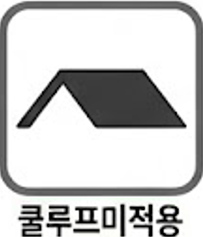
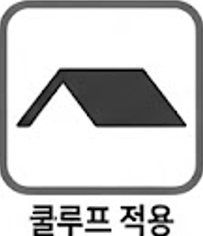
active도 적용

diff --git a/src/reb/report.py b/src/reb/report.py
@@ -931,6 +931,40 @@ def get_passivechange_bool(
         
     return bools
 
+def get_activechange_bool(
+    grm1:GreenRetrofitModel,
+    grm2:GreenRetrofitModel,
+    ) -> list[bool]:
+    
+    bools = [False]*5 # 난방, 냉방, 환기, 조명, 태양광
+    
+    heatingchanged, coolingchanged, ventchanged = parse_activechange(grm1, grm2)
+    
+    if heatingchanged != "변화 없음.":
+        bools[0] = True
+    if coolingchanged != "변화 없음.":
+        bools[1] = True
+    if ventchanged != "변화 없음.":
+        bools[2] = True
+        
+    # 조명
+    if round(grm1.averaged_lightdensity,3) != round(grm2.averaged_lightdensity,3):
+        bools[3] = True
+        
+    # 태양광
+    if len(grm1.pv) != len(grm2.pv):
+        bools[4] = True
+    elif any(
+        round(pv1.efficiency,3) != round(pv2.efficiency,3) or
+        round(pv1.area,3) != round(pv2.area,3) or
+        round(pv1.azimuth,2) != round(pv2.azimuth,2) or
+        round(pv1.tilt,2) != round(pv2.tilt,2)
+        for pv1, pv2 in zip(grm1.pv, grm2.pv)
+    ):
+        bools[4] = True
+    
+    return bools
+
 def build_report(
     before_rebexcelpath:str,
     after_rebexcelpath :str,
@@ -974,21 +1008,10 @@ def build_report(
         "before2after": bool_to_적용(get_passivechange_bool(grmbefore, grmafter)),
         "after2afterN": bool_to_적용(get_passivechange_bool(grmafter, grmafterN)),
     }
-    
     # active change
-    activechange_before2after = parse_activechange(grmbefore, grmafter)
-    activechange_after2afterN = parse_activechange(grmafter, grmafterN)
     activechangedict = {
-        "before2after":{
-            "heating": activechange_before2after[0],
-            "cooling": activechange_before2after[1],
-            "ventilation": activechange_before2after[2],
-        },
-        "after2afterN":{
-            "heating": activechange_after2afterN[0],
-            "cooling": activechange_after2afterN[1],
-            "ventilation": activechange_after2afterN[2],
-        }
+        "before2after": bool_to_적용(get_activechange_bool(grmbefore, grmafter)),
+        "after2afterN": bool_to_적용(get_activechange_bool(grmafter, grmafterN)),
     }
     
     # hvacoperation change

diff --git a/src/epsimple/core/hvac.py b/src/epsimple/core/hvac.py
@@ -1822,7 +1822,7 @@ class PhotoVoltaicSystem:
     """
     
     def __str__(self) -> str:
-        return f"{self.area:.1f}m2 PV panel {self.name} (ID={self.ID}): eff={self.efficiency*Unit.NONE2PRC:.1f}%, azim={self.azimuth:.1f}°, tilt={self.tilt:.1f}°"
+        return f"{self.area:.1f}m2 PV panel {self.name}: eff={self.efficiency*Unit.NONE2PRC:.1f}%, azim={self.azimuth:.1f}°, tilt={self.tilt:.1f}°"
     
     def __repr__(self) -> str:
         return f"<PhotoVoltaicSystem {self.name} (ID={self.ID}) at {hex(id(self))}>"
